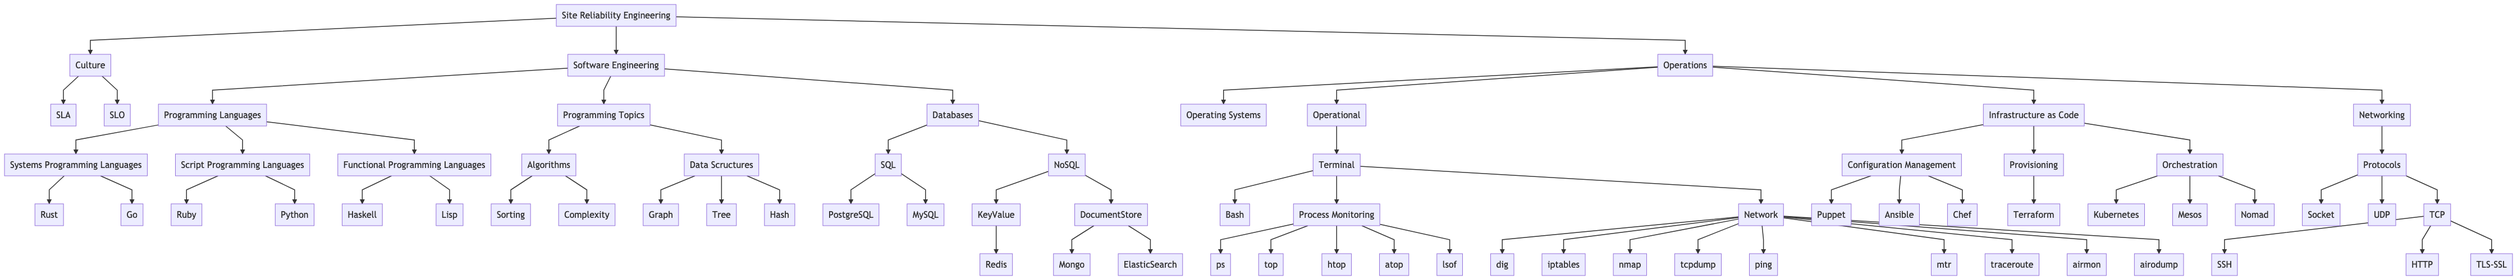
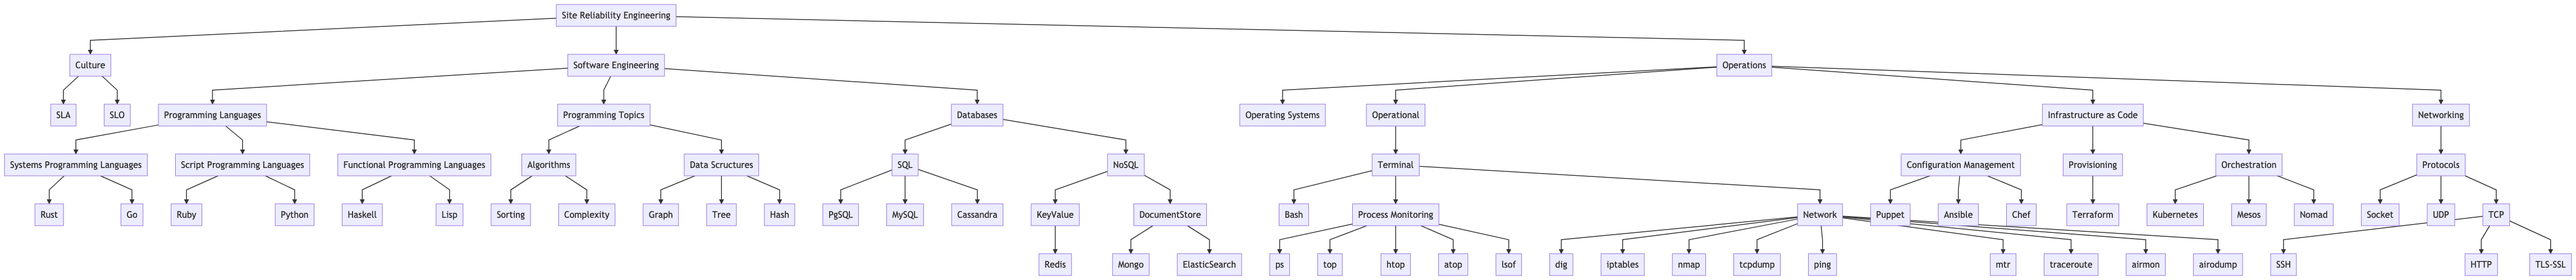
Add cassandra to the chart

diff --git a/README.md b/README.md
@@ -39,6 +39,7 @@
       * SQL
         * Postgres
         * MySQL
+        * Cassandra
       * NoSQL
         * KeyValue
           * [BoJack](https://github.com/marceloboeira/bojack) ✍🏼 💻 🆓
